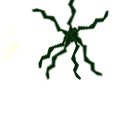
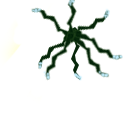
snow on trees

diff --git a/build/js/tree.js b/build/js/tree.js
@@ -7,9 +7,10 @@
     rnd = FW.rnd;
 
     function Tree(pos) {
-      var height, position, y, _i;
+      var position, y, _i, _ref;
       this.position = pos;
       this.treeTick = 0.16;
+      this.numLayers = 100;
       this.treeGroup = new ShaderParticleGroup({
         texture: THREE.ImageUtils.loadTexture('assets/leaf.png'),
         maxAge: 100,
@@ -20,8 +21,7 @@
         maxAge: 10,
         blending: THREE.NormalBlending
       });
-      height = rnd(30, 60);
-      for (y = _i = 1; _i <= 50; y = ++_i) {
+      for (y = _i = 1, _ref = this.numLayers; 1 <= _ref ? _i <= _ref : _i >= _ref; y = 1 <= _ref ? ++_i : --_i) {
         position = new THREE.Vector3(rnd(this.position.x - 10, this.position.x + 10), y * 4, this.position.z);
         this.treeGroup.addEmitter(this.generateTree(y, position));
       }
@@ -30,13 +30,13 @@
 
     Tree.prototype.generateTree = function(y) {
       var spread, treeEmitter;
-      spread = 250 - y * 5;
+      spread = Math.max(0, 250 - y * 2.5);
       return treeEmitter = new ShaderParticleEmitter({
         size: 200,
         sizeSpread: 50,
         position: new THREE.Vector3(this.position.x, y * 4, this.position.z),
         positionSpread: new THREE.Vector3(spread * rnd(0.9, 1), 0, spread * rnd(0.9, 1)),
-        particlesPerSecond: 10 / y,
+        particlesPerSecond: 20 / y,
         opacityStart: 1.0,
         opacityMiddle: 1.0,
         opacityEnd: 1.0

diff --git a/build/js/world.js b/build/js/world.js
@@ -47,8 +47,8 @@
       FW.scene.add(aMeshMirror);
       this.meteor = new FW.Meteor();
       this.stars = new FW.Stars();
-      for (i = _i = 1; _i <= 40; i = ++_i) {
-        position = new THREE.Vector3(rnd(-4000, 4000), rnd(-200, 0), rnd(-4000, 4000));
+      for (i = _i = 1; _i <= 1; i = ++_i) {
+        position = new THREE.Vector3(0, 0, 0);
         distance = FW.camera.position.distanceTo(position);
         if (distance > 100) {
           this.trees.push(new FW.Tree(position));
